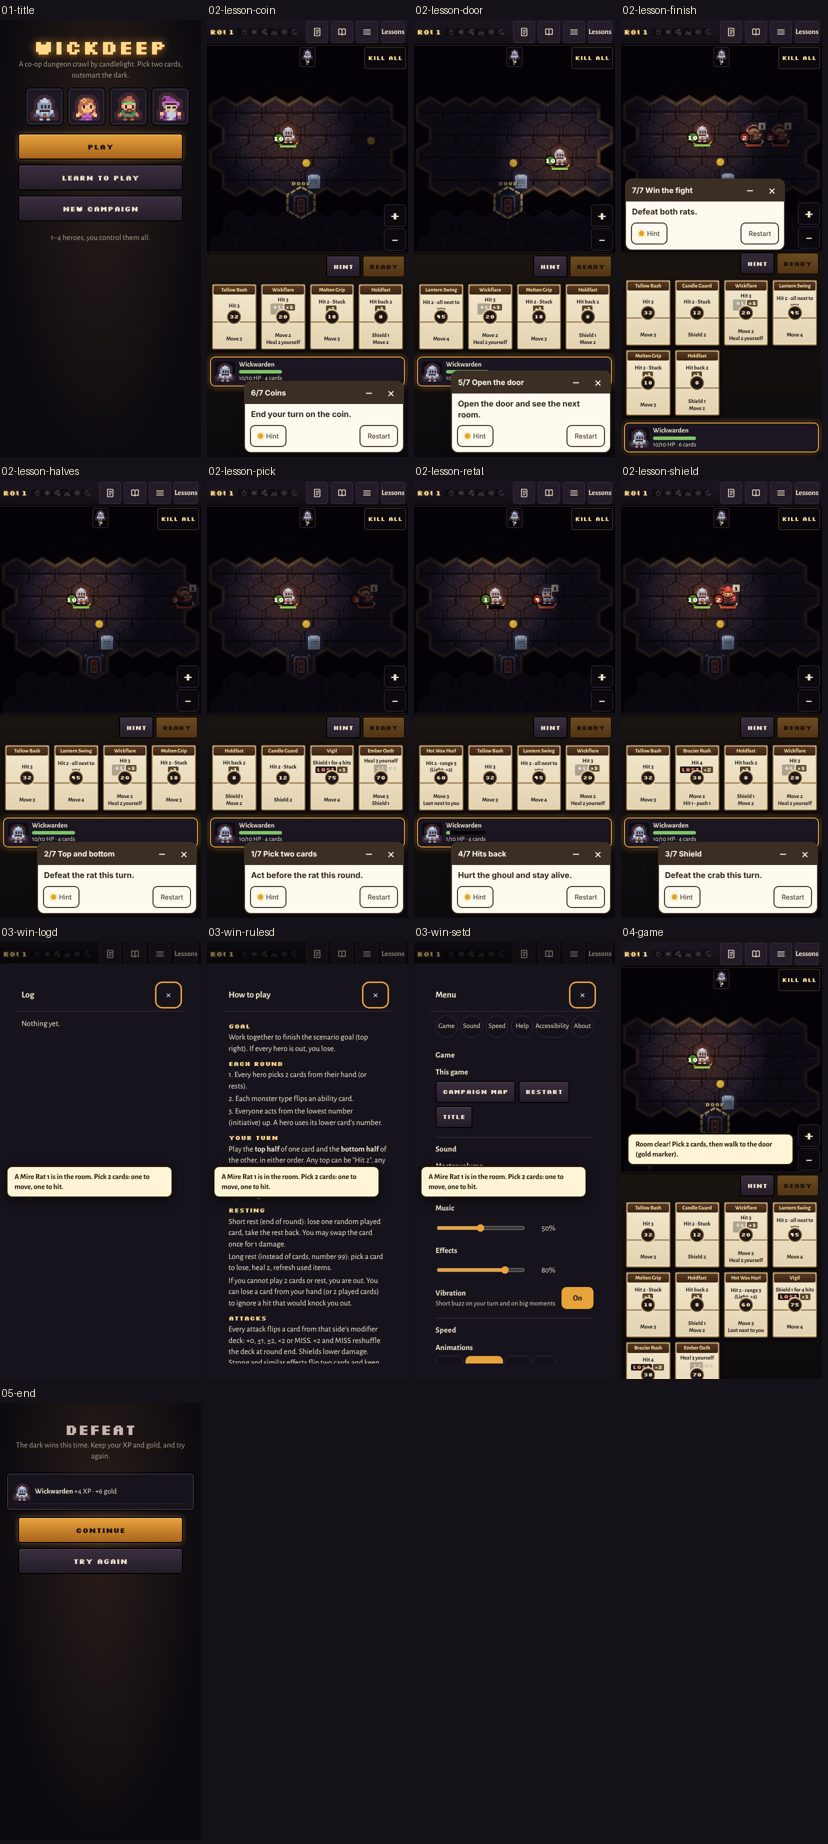
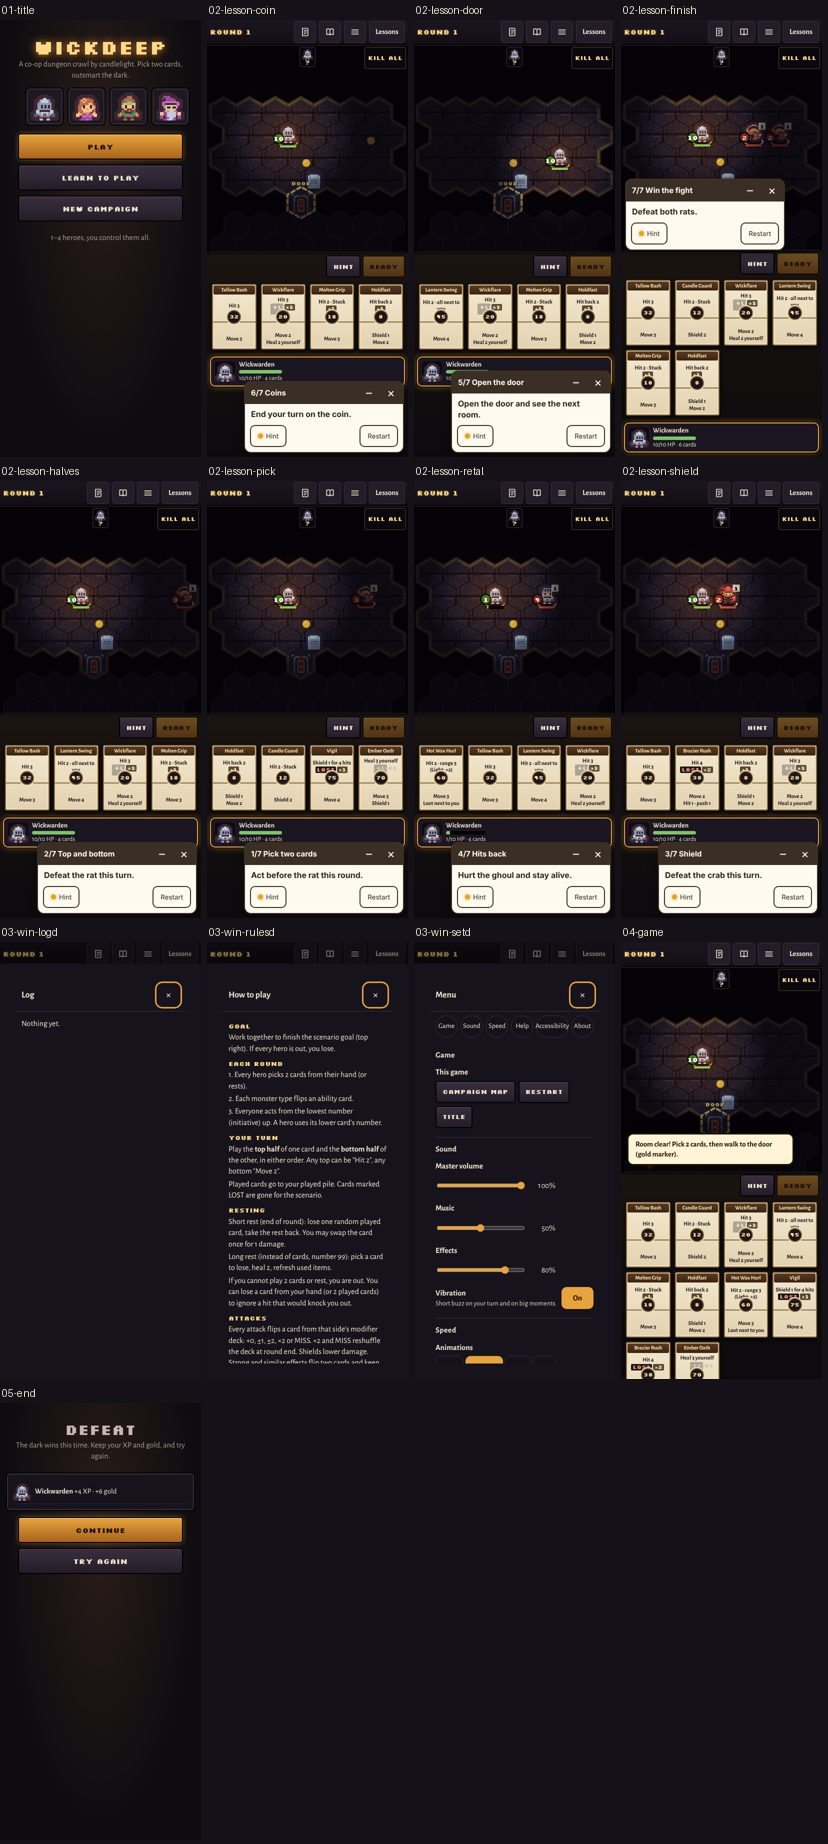
wickdeep: all 7 lessons pass at phone and PC; HUD shows only charged elements, no zoom buttons on touch
- shield lesson: the crab draws a card without its own shield so the lesson's numbers are true (Attack 4 kills, Attack 3 leaves 1)
- coin lesson: solved once you stand on the coin after your move
- coach bubble hidden while a window or lesson card is open
- lessons-test: WD_ONLY / WD_DEBUG switches, lit hex nearest the lesson's coin

Changed region(s): [[0.5133, 0.6182, 0.7246, 0.6491], [0.2415, 0.6182, 0.4529, 0.6491], [0.0, 0.6182, 0.2114, 0.6491]]

diff --git a/games-src/wickdeep/lessons-test.js b/games-src/wickdeep/lessons-test.js
@@ -57,7 +57,7 @@ async function run(b, W, H) {
       const re = a.re || null;
       let cands = [...document.querySelectorAll(a.sel)].filter(x => vis(x) && (!a.name || (x.closest('.cd') || x).textContent.includes(a.name)) && (!re || re.test(x.textContent)));
       if (a.near && cands.length) {   // the lit hex closest to the lesson's target: a monster, the closed door, or the coin
-        const goal = Object.keys(G.hex).filter(k => a.near === 'mon' ? G.figs.some(f => f.team === 'm' && f.hp > 0 && f.pos === k) : a.near === 'door' ? G.hex[k].t === 'door' && !G.hex[k].open : !!G.hex[k].coin);
+        const goal = Object.keys(G.hex).filter(k => a.near === 'mon' ? G.figs.some(f => f.team === 'm' && f.hp > 0 && f.pos === k) : a.near === 'door' ? G.hex[k].t === 'door' && !G.hex[k].open : k === WDL.ctx.coin);
         const d = x => Math.min(...goal.map(k => WD.dist(x.dataset.k, k)));
         cands.sort((u, v) => d(u) - d(v));
       }
@@ -83,12 +83,13 @@ async function run(b, W, H) {
     for (const s of steps) {
       if (s.engine) { await engineFinish(); continue; }
       if (!(await tapStep(s))) return;
+      dbg(await p.evaluate(() => JSON.stringify({ ask: G.ask && G.ask.h, act: G.act && G.act.used, figs: G.figs.map(f => [f.id, f.hp, f.pos]), sel: UI.sel })));
       if ((await st()).phase !== 'play') return;
     }
   };
 
   const res = {};
-  for (const lesson of ['pick', 'halves', 'shield', 'retal', 'door', 'coin', 'finish']) {
+  for (const lesson of (process.env.WD_ONLY || 'pick,halves,shield,retal,door,coin,finish').split(',')) {
     const t0 = Date.now(), before = probs.length;
     dbg('lesson ' + lesson); await p.evaluate(id => GXST.start(id), lesson);
     await live(lesson);

diff --git a/games-src/wickdeep/src/lessons.js b/games-src/wickdeep/src/lessons.js
@@ -159,7 +159,7 @@
       rule: 'A shield soaks that much damage from every hit before the monster loses hit points.',
       goal: 'Defeat the crab this turn.',
       setup: function () {
-        return stack({ hand: ['ww01', 'ww09', 'ww06', 'ww03'], mons: [{ id: 'cr', type: 'crab', idx: 0, hp: 2, dist: 1, shield: 2 }] });
+        return stack({ hand: ['ww01', 'ww09', 'ww06', 'ww03'], mons: [{ id: 'cr', type: 'crab', idx: 2, hp: 2, dist: 1 }] });
       },
       success: function () { return !alive('cr'); },
       fail: function () {
@@ -273,7 +273,7 @@
     keepClear: ['.gx-bar', '#tray', '#promptrow', '#hot > *', '#zoombox', '#order'],
     qParent: document.querySelector('.gx-bar header') || document.querySelector('.gx-bar')
   });
-  window.WDL = { lessons: lessons };
+  window.WDL = { lessons: lessons, ctx: ctx };
 
   // ?lesson=<id> starts that lesson once the game has booted
   var m = /[?&]lesson=([^&#]+)/.exec(window.location.search);

diff --git a/games-src/wickdeep/src/style.css b/games-src/wickdeep/src/style.css
@@ -333,3 +333,7 @@ body.tutor-on #promptrow{justify-content:flex-start}
 #tray .cd .in{width:24px;height:24px;line-height:22px;font-size:11px}
 @media (min-width:701px){#tray,#tray.hand2{grid-template-columns:repeat(auto-fill,minmax(116px,1fr))}#tray .cd .half{font-size:13px}#tray .cd .nm{font-size:12px}}
 body.tutor-on #coach,body:has(.gxst-card) #coach{display:none!important}
+/* W734 HUD: only what matters now stays on screen; an element shows only while it is charged (tap it for its rule) */
+#els .el.s0{display:none}
+@media (pointer:coarse){#zoombox{display:none}}
+body:has(#rulesd.on,#logd.on,#setd.on,#insp:not([hidden])) #coach{display:none!important}
